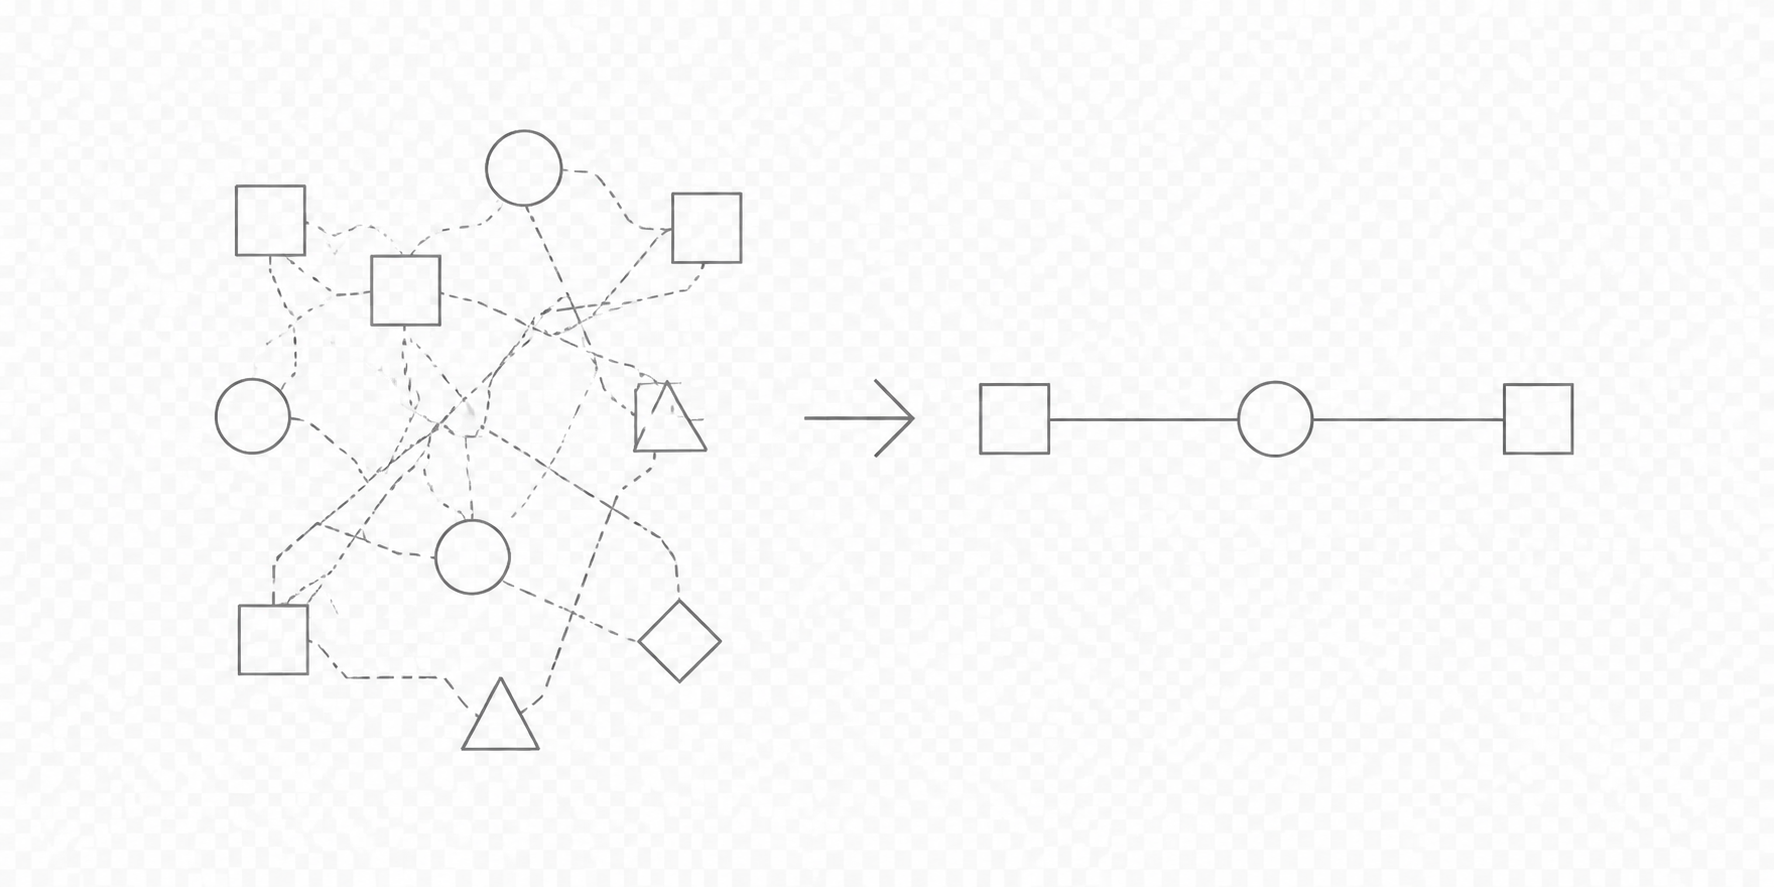
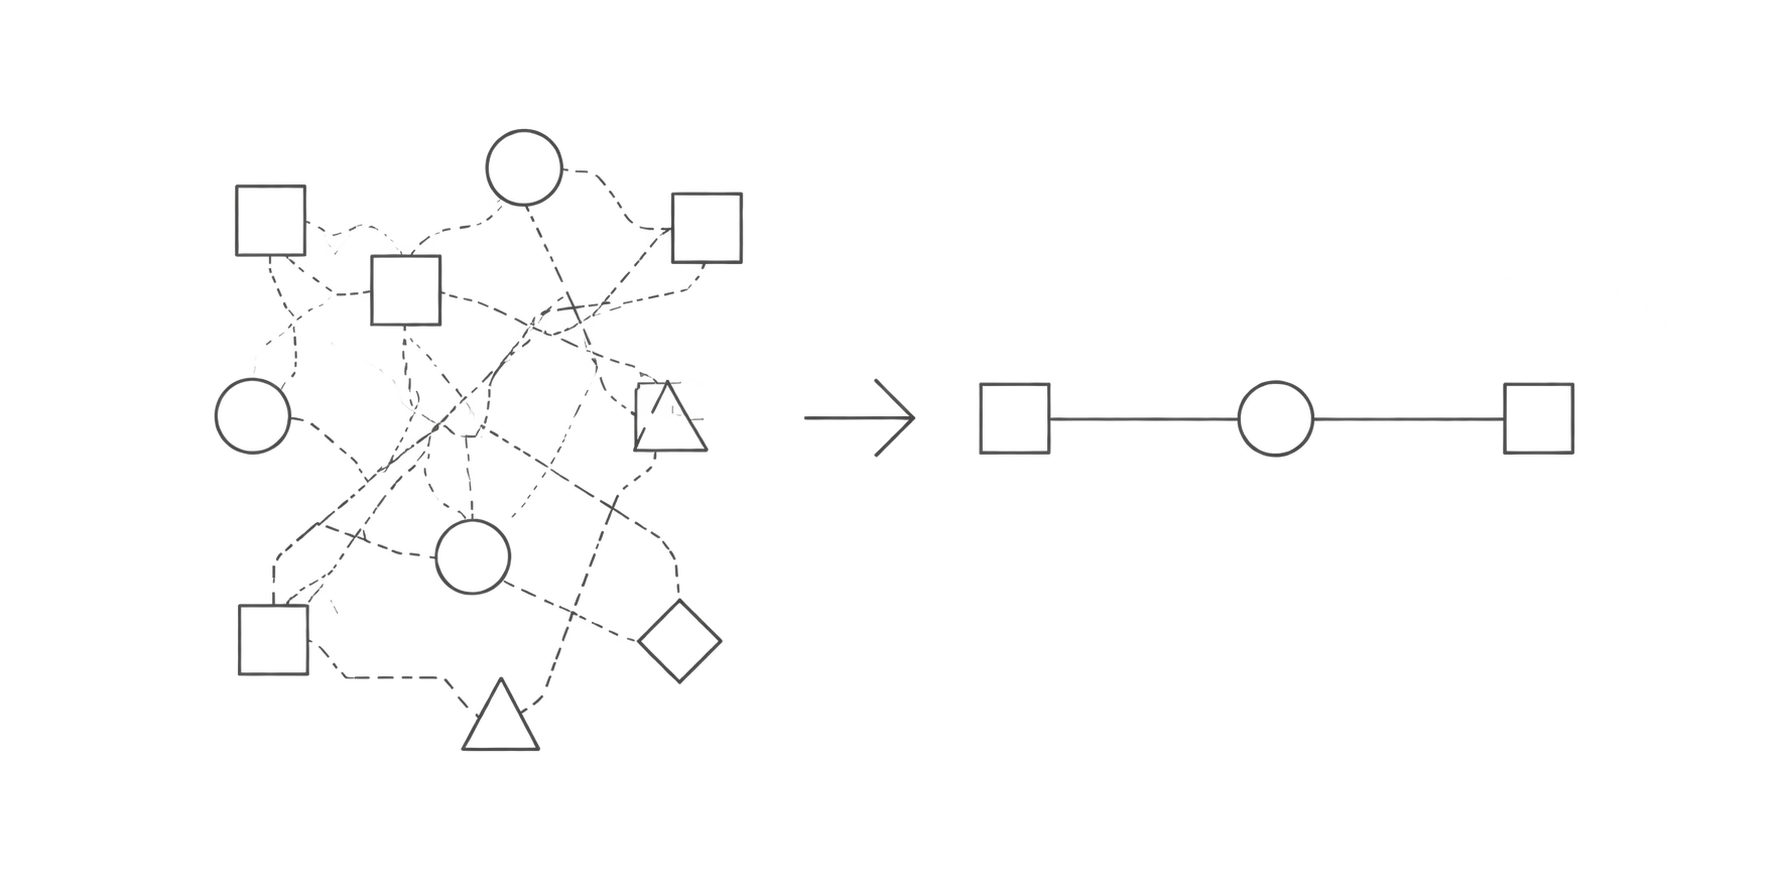
refactor: improve error handling in Exoscale class, enhance organization model, and update metadata dialog rendering in admin routes

diff --git a/web/src/platform/routes/Index.tsx b/web/src/platform/routes/Index.tsx
@@ -42,23 +42,19 @@ const platformCapabilities = [
     {
         title: 'Build',
         description: 'Build complete applications in code using your favorite developer tools.',
-        label: 'Full-code solution',
     },
     {
         title: 'Operate',
         description:
             'Run applications with authentication, permissions, deployment, storage, routing, and logging built in.',
-        label: 'Application operations',
     },
     {
         title: 'Keep it simple',
         description: 'Processes are clear, easy to operate, and cheap to maintain.',
-        label: 'Less complexity',
     },
     {
         title: 'Own the process',
         description: 'Keep compliance, accountability, and a solution that fits your needs.',
-        label: 'Structured in code',
     },
 ] as const;
 
@@ -200,7 +196,7 @@ export default function Home() {
             <Section className="relative z-20 bg-body" variant="transparent" padding={6} paddingBlock={10}>
                 <Stack className="mx-auto" width="100%" maxWidth={1000} gap={4}>
                     <Grid gap={4} columns={{ minWidth: 320, max: 2, repeat: 'fit' }}>
-                        {platformCapabilities.slice(0, 2).map(({ title, description, label }) => (
+                        {platformCapabilities.slice(0, 2).map(({ title, description }) => (
                             <Card key={title} className="overflow-hidden" minHeight={360} padding={0}>
                                 <Stack height="100%">
                                     <Stack
@@ -212,11 +208,6 @@ export default function Home() {
                                         <Stack className="absolute size-48 rounded-full border border-border opacity-60" />
                                         <Stack className="absolute size-32 rounded-full border border-border-emphasized opacity-50" />
                                         <Stack className="absolute inset-x-8 top-1/2 border-t border-border opacity-50" />
-                                        <Stack className="absolute bottom-3 rounded-full border border-border bg-surface px-3 py-1">
-                                            <Text type="code" size="3xs" color="secondary">
-                                                {label}
-                                            </Text>
-                                        </Stack>
                                     </Stack>
                                     <Stack className="p-6" gap={3}>
                                         <Heading className="text-base" level={2}>
@@ -231,7 +222,7 @@ export default function Home() {
                         ))}
                     </Grid>
                     <Grid gap={4} columns={{ minWidth: 260, max: 3, repeat: 'fit' }}>
-                        {platformCapabilities.slice(2).map(({ title, description, label }) => (
+                        {platformCapabilities.slice(2).map(({ title, description }) => (
                             <Card key={title} className="overflow-hidden" minHeight={320} padding={0}>
                                 <Stack height="100%">
                                     <Stack
@@ -255,11 +246,6 @@ export default function Home() {
                                                 <Stack className="absolute inset-x-6 top-1/2 border-t border-border opacity-50" />
                                             </>
                                         )}
-                                        <Stack className="absolute bottom-3 rounded-full border border-border bg-surface px-3 py-1">
-                                            <Text type="code" size="3xs" color="secondary">
-                                                {label}
-                                            </Text>
-                                        </Stack>
                                     </Stack>
                                     <Stack className="p-6" gap={3}>
                                         <Heading className="text-base" level={2}>

diff --git a/web/src/platform/routes/admin/Organizations.tsx b/web/src/platform/routes/admin/Organizations.tsx
@@ -113,7 +113,7 @@ export default function AdminOrganizations() {
                     )}
                 </TableColumn>
             </Table>
-            {metadataOrganization ? (
+            {metadataOrganization && (
                 <MetadataDialog
                     footer={
                         <Stack direction="horizontal" gap={2} justify="end">
@@ -141,7 +141,7 @@ export default function AdminOrganizations() {
                         <MetadataListItem label="ID">{metadataOrganization.id}</MetadataListItem>
                     </MetadataList>
                 </MetadataDialog>
-            ) : null}
+            )}
             <DeleteConfirmation {...deleteDialog.dialogProps} />
         </Stack>
     );

diff --git a/web/src/platform/routes/admin/Users.tsx b/web/src/platform/routes/admin/Users.tsx
@@ -72,7 +72,7 @@ export default function AdminUsers() {
                     )}
                 </TableColumn>
             </Table>
-            {metadataUser ? (
+            {metadataUser && (
                 <MetadataDialog onClose={() => setMetadataUser(null)} title="User metadata">
                     <MetadataList>
                         <MetadataListItem label="Email">{metadataUser.email}</MetadataListItem>
@@ -82,7 +82,7 @@ export default function AdminUsers() {
                         <MetadataListItem label="ID">{metadataUser.id}</MetadataListItem>
                     </MetadataList>
                 </MetadataDialog>
-            ) : null}
+            )}
         </Stack>
     );
 }

diff --git a/web/src/platform/routes/admin/Database.tsx b/web/src/platform/routes/admin/Database.tsx
@@ -102,7 +102,7 @@ export default function AdminDatabase() {
                     )}
                 </TableColumn>
             </Table>
-            {metadataDatabase ? (
+            {metadataDatabase && (
                 <MetadataDialog
                     footer={
                         <Stack direction="horizontal" gap={2} justify="end">
@@ -130,7 +130,7 @@ export default function AdminDatabase() {
                         <MetadataListItem label="ID">{metadataDatabase.id}</MetadataListItem>
                     </MetadataList>
                 </MetadataDialog>
-            ) : null}
+            )}
             <DeleteConfirmation {...deleteDialog.dialogProps} />
         </Stack>
     );

diff --git a/web/src/platform/routes/admin/Compute.tsx b/web/src/platform/routes/admin/Compute.tsx
@@ -113,7 +113,7 @@ export default function AdminCompute() {
                     )}
                 </TableColumn>
             </Table>
-            {metadataCompute ? (
+            {metadataCompute && (
                 <MetadataDialog
                     footer={
                         <Stack direction="horizontal" gap={2} justify="end">
@@ -143,7 +143,7 @@ export default function AdminCompute() {
                         <MetadataListItem label="ID">{metadataCompute.id}</MetadataListItem>
                     </MetadataList>
                 </MetadataDialog>
-            ) : null}
+            )}
             <DeleteConfirmation {...deleteDialog.dialogProps} />
         </Stack>
     );

diff --git a/web/src/platform/routes/admin/Storage.tsx b/web/src/platform/routes/admin/Storage.tsx
@@ -102,7 +102,7 @@ export default function AdminStorage() {
                     )}
                 </TableColumn>
             </Table>
-            {metadataStorage ? (
+            {metadataStorage && (
                 <MetadataDialog
                     footer={
                         <Stack direction="horizontal" gap={2} justify="end">
@@ -127,7 +127,7 @@ export default function AdminStorage() {
                         <MetadataListItem label="ID">{metadataStorage.id}</MetadataListItem>
                     </MetadataList>
                 </MetadataDialog>
-            ) : null}
+            )}
             <DeleteConfirmation {...deleteDialog.dialogProps} />
         </Stack>
     );

diff --git a/web/src/xml/adapters/Menu.tsx b/web/src/xml/adapters/Menu.tsx
@@ -12,7 +12,7 @@ import {
 } from '@/components/ui/Menu';
 
 const menuSectionPropsSchema = z.object({ isHeaderHidden: z.boolean().optional(), title: xmlNonblankStringSchema });
-const menuPropsSchema = z.object({ gap: xmlSpacingSchema.default(3) });
+const menuPropsSchema = z.object({ gap: xmlSpacingSchema.optional() });
 const menuEntryPropsSchema = z.object({
     icon: z.string().refine(isStoneIconName, 'must be a supported icon name').optional(),
     label: xmlNonblankStringSchema,

diff --git a/web/src/xml/core/for.tsx b/web/src/xml/core/for.tsx
@@ -5,8 +5,7 @@ import { resolveXml, resolveXmlValue } from './props';
 
 /** Iterates over an array and renders children in a scoped context. */
 export function For({ props, nodes }: Props) {
-    const runtime = useXmlRuntime();
-    const ctx = runtime.scope;
+    const { scope: ctx, ...runtime } = useXmlRuntime();
 
     // Require the loop alias and source before resolving them.
     if (!props.as) throw new Error('For requires an "as" parameter');

diff --git a/web/src/components/ui/Stack.tsx b/web/src/components/ui/Stack.tsx
@@ -1,7 +1,1 @@
-import type { ComponentProps } from 'react';
-import { Stack as AstryxStack } from '@astryxdesign/core/Stack';
-
-/** Renders an Astryx stack without spacing unless a gap is specified. */
-export function Stack({ gap = 0, ...props }: ComponentProps<typeof AstryxStack>) {
-    return <AstryxStack {...props} gap={gap} />;
-}
+export { Stack } from '@astryxdesign/core/Stack';

diff --git a/api/src/adapters/storage/exoscale.py b/api/src/adapters/storage/exoscale.py
@@ -57,6 +57,14 @@ class Exoscale:
             ),
         )
 
+    @staticmethod
+    def _bucket_is_absent(error: ClientError) -> bool:
+        """Return whether an S3 error reports an already-absent bucket or key."""
+
+        details = error.response.get("Error", {})
+        status = error.response.get("ResponseMetadata", {}).get("HTTPStatusCode")
+        return details.get("Code") in {"NoSuchBucket", "NoSuchKey", "404"} or status == 404
+
     async def usage(self, bucket: str) -> int | None:
         """Return aggregate usage for one bucket, or none when the bucket is absent."""
 
@@ -101,9 +109,7 @@ class Exoscale:
             try:
                 await client.delete_bucket(Bucket=bucket)
             except ClientError as exc:
-                error = exc.response.get("Error", {})
-                status = exc.response.get("ResponseMetadata", {}).get("HTTPStatusCode")
-                if error.get("Code") not in {"NoSuchBucket", "NoSuchKey", "404"} and status != 404:
+                if not self._bucket_is_absent(exc):
                     raise
 
     async def delete_prefix(self, bucket: str, prefix: str) -> None:
@@ -151,9 +157,7 @@ class Exoscale:
                         break
                     await self._delete_objects(client, bucket, objects)
             except ClientError as exc:
-                error = exc.response.get("Error", {})
-                status = exc.response.get("ResponseMetadata", {}).get("HTTPStatusCode")
-                if error.get("Code") not in {"NoSuchBucket", "NoSuchKey", "404"} and status != 404:
+                if not self._bucket_is_absent(exc):
                     raise
 
     async def _delete_objects(self, client: "S3Client", bucket: str, objects: "list[ObjectIdentifierTypeDef]") -> None:

diff --git a/api/src/models/organizations.py b/api/src/models/organizations.py
@@ -4,7 +4,7 @@ from datetime import datetime
 from pydantic import Field, HttpUrl, BaseModel, ConfigDict
 from src.models.roles import OrganizationRoles
 from src.models.users import UserIdentity
-from src.models.statuses import Status
+from src.models.resources import OrganizationIdentity
 from longlink.shared.models import Email
 
 
@@ -57,21 +57,8 @@ class OrganizationInvitationResponse(BaseModel):
     created_at: datetime
 
 
-class OrganizationSummary(BaseModel):
+class OrganizationSummary(OrganizationIdentity):
     """Represent one organization in admin list responses."""
-
-    model_config = ConfigDict(from_attributes=True)
-
-    # Identifier
-    id: UUID
-
-    # Metadata
-    name: str
-    slug: str
-    avatar: str
-
-    # State
-    status: Status
 
 
 class OrganizationMemberAccessResponse(BaseModel):

diff --git a/sdk/longlink/cli/build.py b/sdk/longlink/cli/build.py
@@ -291,7 +291,9 @@ def build_app(build_context: Path) -> tuple[str, str]:
         sdk_version = "0.0.0"
 
     # Render standard OCI metadata and LongLink-specific runtime metadata.
-    labels = [] if project_description is None else [f"LABEL org.opencontainers.image.description={json.dumps(project_description)}"]
+    labels: list[str] = []
+    if project_description is not None:
+        labels.append(f"LABEL org.opencontainers.image.description={json.dumps(project_description)}")
     environments = read_env_spec(root, pyproject_data)
     if environments:
         labels.append(f"LABEL longlink.environments={json.dumps(json.dumps(environments, separators=(',', ':')))}")
